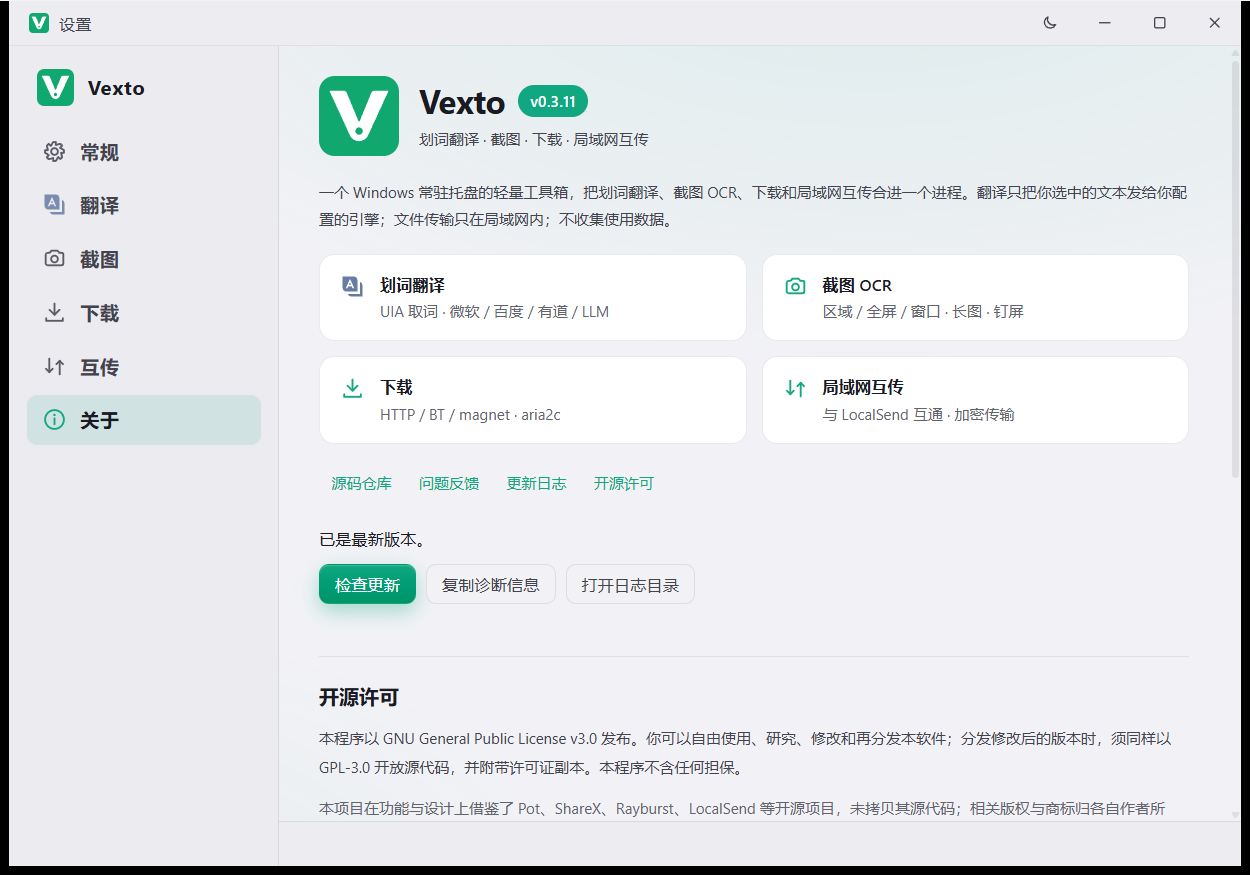
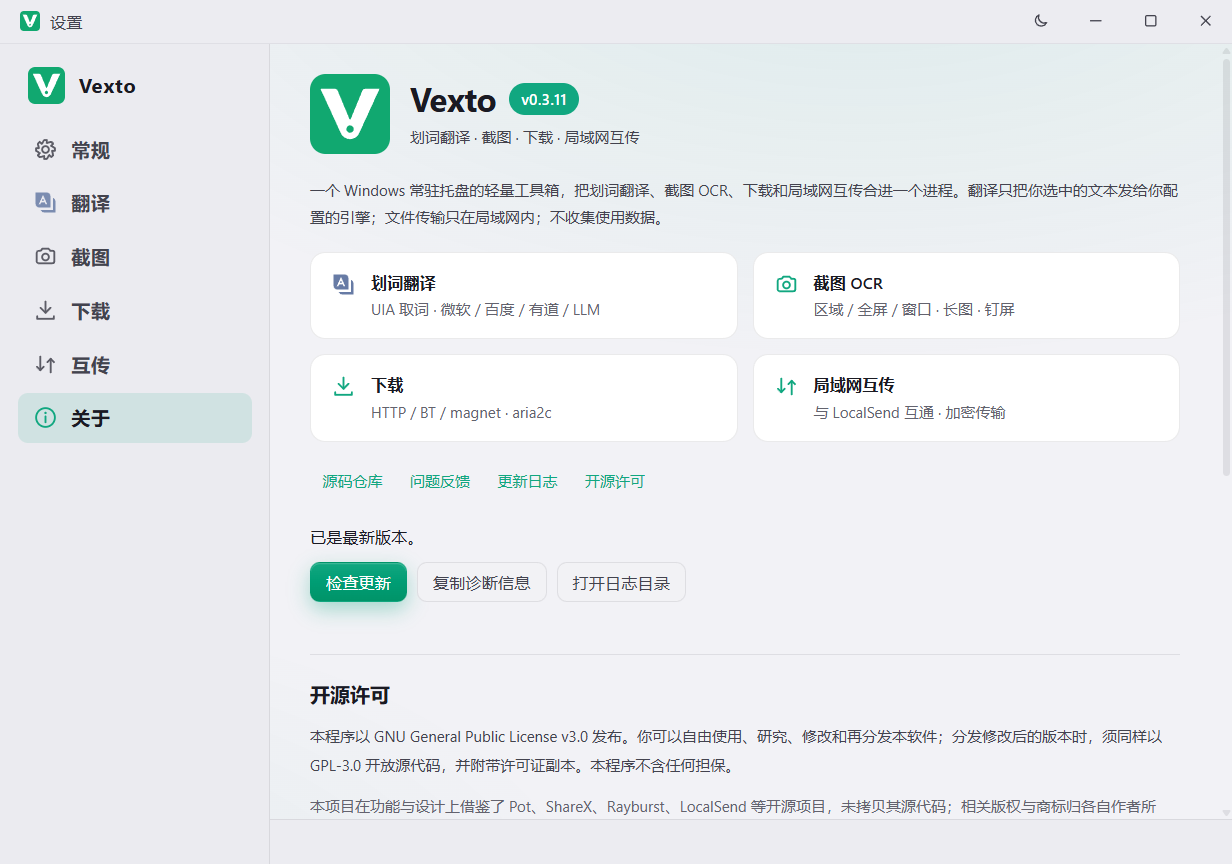
docs: 补充浏览器接管说明并清理截图黑边

diff --git a/README.md b/README.md
@@ -10,7 +10,8 @@
 |---|---|
 | 划词翻译 | 选中文字按热键，光标旁出译文卡片；默认内置微软翻译；也可添加百度 / 有道 / OpenAI 兼容实例 |
 | 截图 | 区域 / 全屏 / 活动窗口截图；框选区域 OCR 翻译；滚动长图；钉屏；选框内直接标注（矩形 / 椭圆 / 箭头 / 画笔 / 文字 / 马赛克，支持选中 / 移动 / 缩放 / 文字编辑）并预览裁头尾；全屏截图右下角缩略图反馈 |
-| 下载 | HTTPS 下载，aria2c sidecar，空闲自动退出 |
+| 下载 | HTTPS / BT / magnet 下载，aria2c sidecar，空闲自动退出 |
+| 浏览器接管 | 安装 [Vexto Connect](https://github.com/Boom-Sumber/vexto-connect) 后，Edge / Chrome / Firefox 与国内 Chromium 套壳浏览器的下载可交给 Vexto |
 | 局域网传文件 | 与官方 LocalSend 互通，接收 / 发送 / 历史 / 校验 |
 | 外观 | 明亮 / 暗色 / 跟随系统，六种主色调 + 取色器 |
 
@@ -29,6 +30,23 @@
 运行 [Vexto_0.3.11_x64-setup.exe](https://github.com/Boom-Sumber/vexto/releases/download/v0.3.11/Vexto_0.3.11_x64-setup.exe)。安装器按当前用户安装（`%LOCALAPPDATA%`），**可以选择自定义安装路径**，不需要管理员权限。
 
 当前安装包 **21.16 MiB**（含 PaddleOCR 模型，LZMA 压缩后）；安装后程序目录约 42 MB。
+
+浏览器接管下载需要另装配套扩展，见下方「浏览器接管下载」。
+
+## 浏览器接管下载
+
+Vexto 本身不直接注入浏览器。要让网页下载进入 Vexto，需要安装配套浏览器扩展 **Vexto Connect**，并在 Vexto 设置 → 下载 → 高级 → 浏览器插件接管 中开启「启用接管」。
+
+支持：
+
+- Microsoft Edge 109+
+- Google Chrome 109+
+- Mozilla Firefox 115+
+- 多款国内 Chromium 套壳浏览器（360、QQ、搜狗等基于 Chromium 的版本）
+
+扩展仓库与安装说明：<https://github.com/Boom-Sumber/vexto-connect>
+
+安装扩展后，在扩展选项页确认主机 `127.0.0.1`、端口 `29110`；如果 Vexto 设置了插件密钥，两边保持一致。之后网页下载会自动交给 Vexto，Vexto 不可用时回落到浏览器下载。
 
 ## 更新
 
@@ -120,6 +138,7 @@ ui/                纯静态前端
 
 - 代码仓库：<https://github.com/Boom-Sumber/vexto>
 - 下载：<https://github.com/Boom-Sumber/vexto/releases>
+- 浏览器扩展：<https://github.com/Boom-Sumber/vexto-connect>
 
 开发文档单独维护，不随本仓库发布。
 
